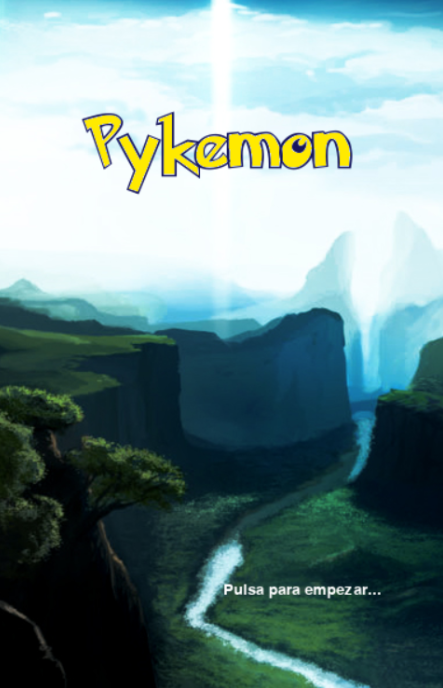
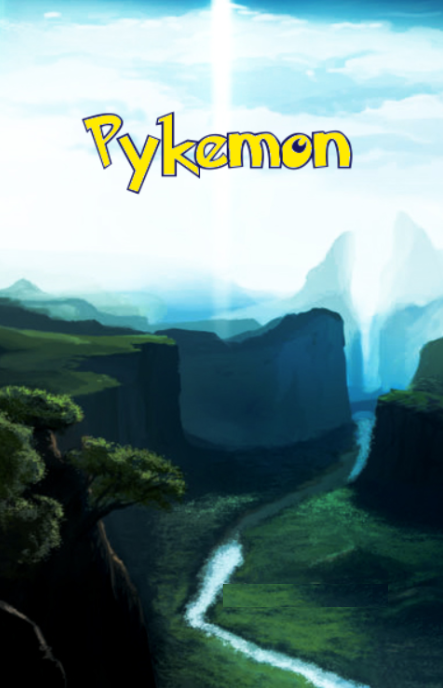
Codigo sucio, panatlla2 acabada y pantalla3 en proceso

Changed region(s): [[0.4989, 0.8241, 0.8804, 0.8852]]

diff --git a/app.py b/app.py
@@ -1,5 +1,38 @@
 # Importar e inicializar Pygame.
+import re
 import pygame
+import random
+
+class Pokemon:
+    # Constructor de la clase Pokemon.
+    def __init__(self, name, type, imgFront, imgBack):
+        self.name = name
+        self.type = type
+        self.imgFront = imgFront
+        self.imgBack = imgBack
+    
+    #Getters
+    def getType(self):
+        return self.type
+    def getImgFront(self):
+        return self.imgFront
+    def getImgBack(self):
+        return self.imgBack
+    #Setters
+    def setType(self, type):
+        self.type = type
+    def setImgFront(self, imgFront):
+        self.imgFront = imgFront
+    def setImBack(self, imgBack):
+        self.imgBack = imgBack
+        
+    def __str__(self):
+        return self.name
+
+pokemons = [Pokemon("Charmander", "Fuego", "Images/Sprites/4_charmander_front.png", "Images/Sprites/4_charmander_back.png"),
+             Pokemon("Squirtle", "Agua", "Images/Sprites/7_squirtle_front.png", "Images/Sprites/7_squirtle_back.png"),
+             Pokemon("Bulbasaur", "Planta", "Images/Sprites/1_bulbasaur_front.png", "Images/Sprites/1_bulbasaur_back.png")]
+    
 pygame.init()
 
 # Crear la ventana y poner el tamaño.
@@ -10,6 +43,10 @@ bg = pygame.image.load("Images/bg1.png")
 #Background
 pygame.display.set_caption("Pykemon")
 screen.blit(bg, (0, 0))
+#Texto de escoje tu pokemon
+font = pygame.font.Font('Fonts/pokemon_generation_1.ttf', 12)
+text = font.render('Pulsa para emepzar...', True,(250,250,250))
+screen.blit(text,(220,580))
 #Icon of the game
 programIcon = pygame.image.load('Images/icon.png')
 pygame.display.set_icon(programIcon)
@@ -21,6 +58,8 @@ blue = (0, 0, 128)
 
 clock = pygame.time.Clock()
 salir = False
+pantalla2 = False
+pantalla3 = False
 
 # Loop principal (game loop) del juego.
 while not salir:
@@ -40,15 +79,65 @@ while not salir:
             if event.key == pygame.K_ESCAPE:
                 salir = True
             else:
-                #Cambiamos el color de fondo
-                screen.fill([235, 240, 186])
-                #Añadimos los pokemons
-                pokemon1 = pygame.image.load("Images/Sprites/4_charmander_front.png").convert_alpha()
-                pokemon2 = pygame.image.load("Images/Sprites/7_squirtle_front.png").convert_alpha()
-                pokemon3 = pygame.image.load("Images/Sprites/1_bulbasaur_front.png").convert_alpha()
-                screen.blit(pygame.transform.scale(pokemon1, (100, 100)), (60, 320))
-                screen.blit(pygame.transform.scale(pokemon2, (100, 100)), (250, 320))
-                screen.blit(pygame.transform.scale(pokemon3, (100, 100)), (147, 460))
+                pantalla2 = True
+                
+        if pantalla2: 
+            
+            #PANEL DE ELECION DE POKEMON
+            #Cambiamos el color de fondo
+            screen.fill([235, 240, 186])
+            #Añadimos los pokemons
+            pokemon1 = pygame.image.load(pokemons[0].getImgFront()).convert_alpha()
+            pokemon2 = pygame.image.load(pokemons[1].getImgFront()).convert_alpha()
+            pokemon3 = pygame.image.load(pokemons[2].getImgFront()).convert_alpha()
+            screen.blit(pygame.transform.scale(pokemon1, (100, 100)), (60, 320))
+            screen.blit(pygame.transform.scale(pokemon2, (100, 100)), (250, 320))
+            screen.blit(pygame.transform.scale(pokemon3, (100, 100)), (147, 460))
+            #Texto de escoje tu pokemon
+            text = font.render('Escoje tu Pokemon ...', True,(0,0,0))
+            font = pygame.font.Font('Fonts/pokemon_generation_1.ttf', 18)
+            screen.blit(text,(65,180))   
+            x, y = pygame.mouse.get_pos()
+            if event.type == pygame.MOUSEBUTTONDOWN:
+                if pygame.mouse.get_pressed()[0]:
+                    if pygame.Rect(60, 320, 100, 100).collidepoint(x, y):
+                        pantalla2 = False
+                        pantalla3 = True
+                        
+                        pokemonUser = pokemons[0]
+                        pokemonBot = random.choice(pokemons)
+                        bgs = ["background_1.png","background_2.png","background_3.png","background_4.png"]
+                        bgEscenario = random.choice(bgs)
+                    elif pygame.Rect(250, 320, 100, 100).collidepoint(x, y):
+                        pantalla2 = False
+                        pantalla3 = True
+                        
+                        pokemonUser = pokemons[1]
+                        pokemonBot = random.choice(pokemons)
+                        bgs = ["background_1.png","background_2.png","background_3.png","background_4.png"]
+                        bgEscenario = random.choice(bgs)
+                    elif pygame.Rect(147, 460, 100, 100).collidepoint(x, y):
+                        pantalla2 = False
+                        pantalla3 = True
+                        
+                        pokemonUser = pokemons[2]
+                        pokemonBot = random.choice(pokemons)
+                        bgs = ["background_1.png","background_2.png","background_3.png","background_4.png"]
+                        bgEscenario = random.choice(bgs)
+        if pantalla3:   
+            #PANEL DE BATALLA
+            screen.fill([235, 240, 186])
+            
+            #Escenario
+            escenario = pygame.image.load("Images/Backgrounds/"+bgEscenario).convert_alpha()
+            screen.blit(pygame.transform.scale(escenario, (350, 250)), (25, 20))
+            #pokemons
+            pokemon1 = pygame.image.load(pokemonUser.getImgBack()).convert_alpha()
+            screen.blit(pygame.transform.scale(pokemon1, (100, 100)), (30, 160))
+            
+            pokemon2 = pygame.image.load(pokemonBot.getImgFront()).convert_alpha()
+            screen.blit(pygame.transform.scale(pokemon2, (100, 100)), (230, 70))
+        
                 
                 
     # Actualizar la pantalla.

diff --git a/pruebas.py b/pruebas.py
@@ -1,0 +1,60 @@
+import pygame
+ 
+pygame.init()
+screen = pygame.display.set_mode((500, 600))
+clock = pygame.time.Clock()
+font = pygame.font.SysFont("Arial", 20)
+ 
+ 
+class Button:
+    """Create a button, then blit the surface in the while loop"""
+ 
+    def __init__(self, text,  pos, font, bg="black", feedback=""):
+        self.x, self.y = pos
+        self.font = pygame.font.SysFont("Arial", font)
+        if feedback == "":
+            self.feedback = "text"
+        else:
+            self.feedback = feedback
+        self.change_text(text, bg)
+ 
+    def change_text(self, text, bg="black"):
+        """Change the text whe you click"""
+        self.text = self.font.render(text, 1, pygame.Color("White"))
+        self.size = self.text.get_size()
+        self.surface = pygame.Surface(self.size)
+        self.surface.fill(bg)
+        self.surface.blit(self.text, (0, 0))
+        self.rect = pygame.Rect(self.x, self.y, self.size[0], self.size[1])
+ 
+    def show(self):
+        screen.blit(button1.surface, (self.x, self.y))
+ 
+    def click(self, event):
+        x, y = pygame.mouse.get_pos()
+        if event.type == pygame.MOUSEBUTTONDOWN:
+            if pygame.mouse.get_pressed()[0]:
+                if self.rect.collidepoint(x, y):
+                    self.change_text(self.feedback, bg="red")
+ 
+ 
+def mainloop():
+    """ The infinite loop where things happen """
+    while True:
+        for event in pygame.event.get():
+            if event.type == pygame.QUIT:
+                pygame.quit()
+            button1.click(event)
+        button1.show()
+        clock.tick(30)
+        pygame.display.update()
+ 
+ 
+button1 = Button(
+    "Click here",
+    (100, 100),
+    font=30,
+    bg="navy",
+    feedback="You clicked me")
+ 
+mainloop()
